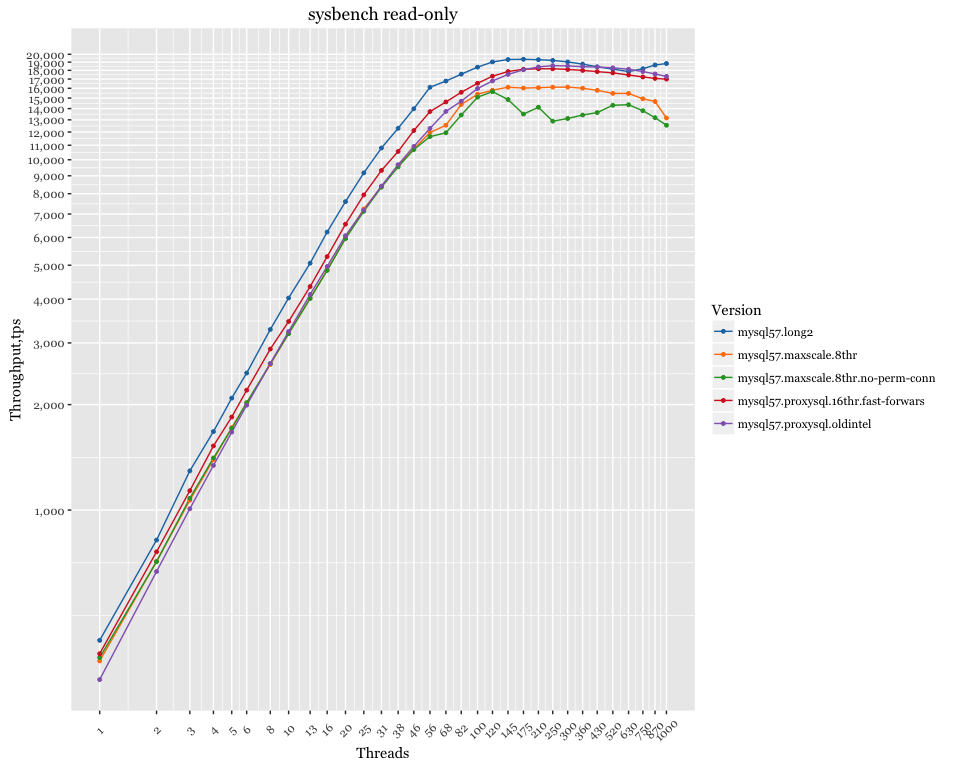
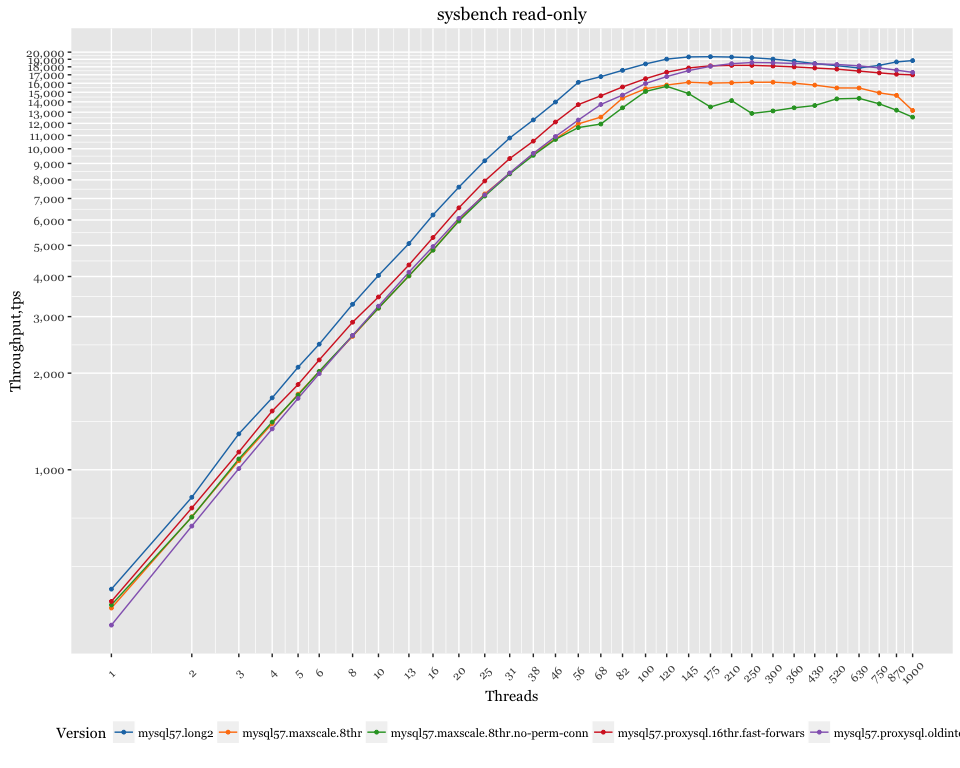
proxy results

diff --git a/remote-OLTP-proxy/summary/proxy-OLTP.md b/remote-OLTP-proxy/summary/proxy-OLTP.md
@@ -25,6 +25,8 @@ Results
 
 base value: MySQL 5.7
 
+![](proxy-OLTP_files/figure-markdown_github/schema-relative-1.png)
+
 Previous Results with proxysql
 ------------------------------
 
